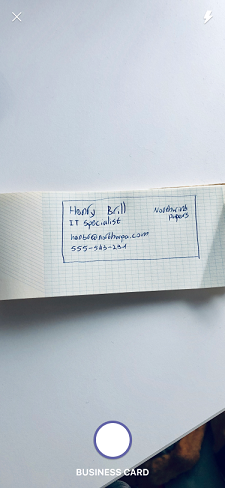
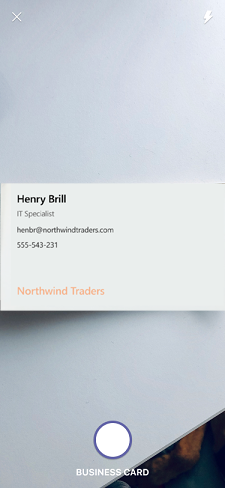
updated

Changed region(s): [[0.0, 0.3689, 1.0, 0.6455]]

diff --git a/ai-docs/sales/intro-admin-guide-sales-insights.md b/ai-docs/sales/intro-admin-guide-sales-insights.md
@@ -192,7 +192,7 @@ Verify the following requirements before setting up and using the sales assistan
 
 **As an administrator**
 
-   - Enable the preview feature in Dynamics 365. To learn more, see [What are Preview features, and how do I enable them?](/dynamics365/customer-engagement/admin/what-are-preview-features-how-do-i-enable-them)
+   - Enable the preview feature and set **Microsoft Teams Integration Preview** option as **Yes** through the Common Data Service platform. To learn more, see [What are Preview features, and how do I enable them?](/dynamics365/customer-engagement/admin/what-are-preview-features-how-do-i-enable-them)
 
    - Enable Talking points, Who knows whom, and Insight cards in your organization to leverage the services to get full utilization of assistant app. To learn more, see [Enable and configure advanced Sales Insights features](#enable-and-configure-advanced-sales-insights-features).
 

diff --git a/ai-docs/sales/scan-business-cards-notes.md b/ai-docs/sales/scan-business-cards-notes.md
@@ -44,9 +44,6 @@ To scan a business card, follow these steps:
     > [!div class="mx-imgBorder"]
     > ![Camera opens to snap business card](media/si-teams-app-scan-card-camera.png  "Camera opens to snap business card")
 
-
-<!--from editor: It would be nice if we had a more authentic-looking business card to use in the above image. Also, are Henry Brill and Northwind Papers approved fictitious names? -->
-
 4.	Face the camera toward the business card and ensure that the card remains within the scan area (rectangular area). Snap a photo of the card. 
 
     The details of the card such as name, role, business email, business phone, and account are captured on the creation form. 
